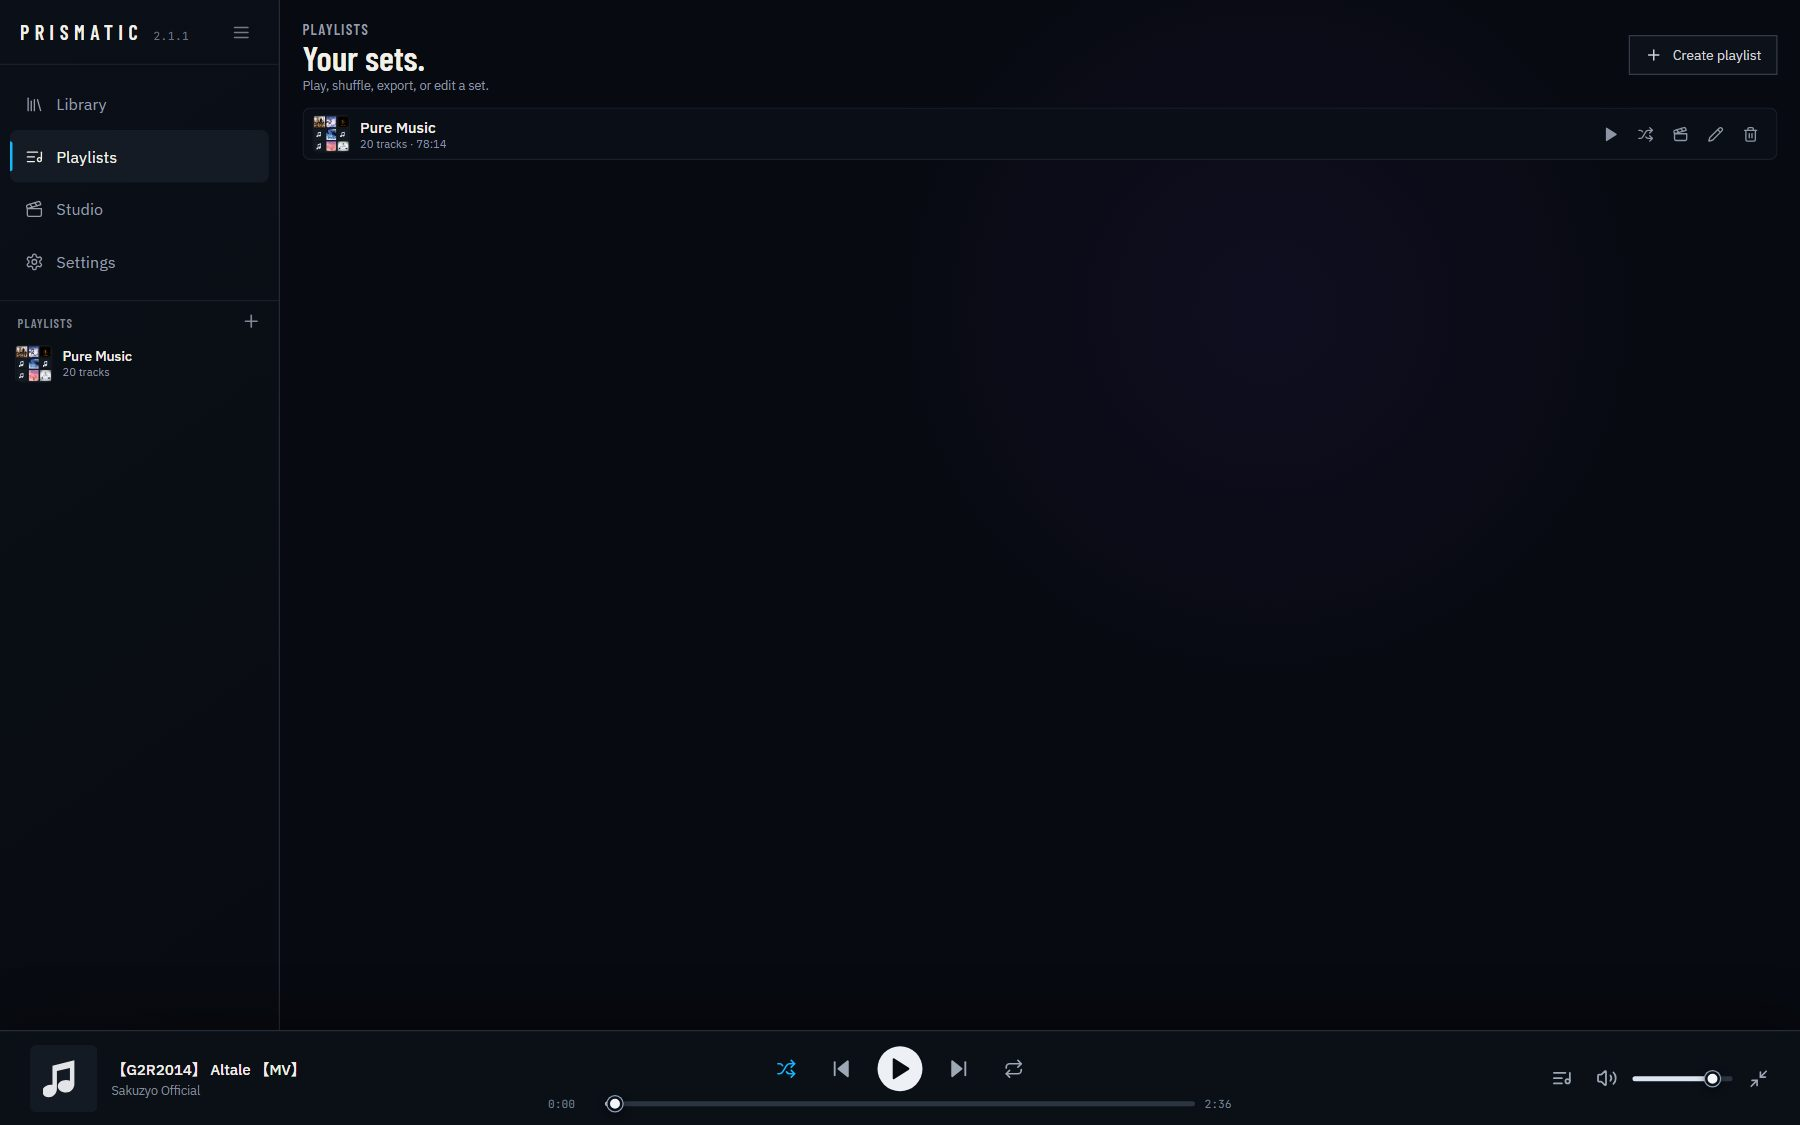
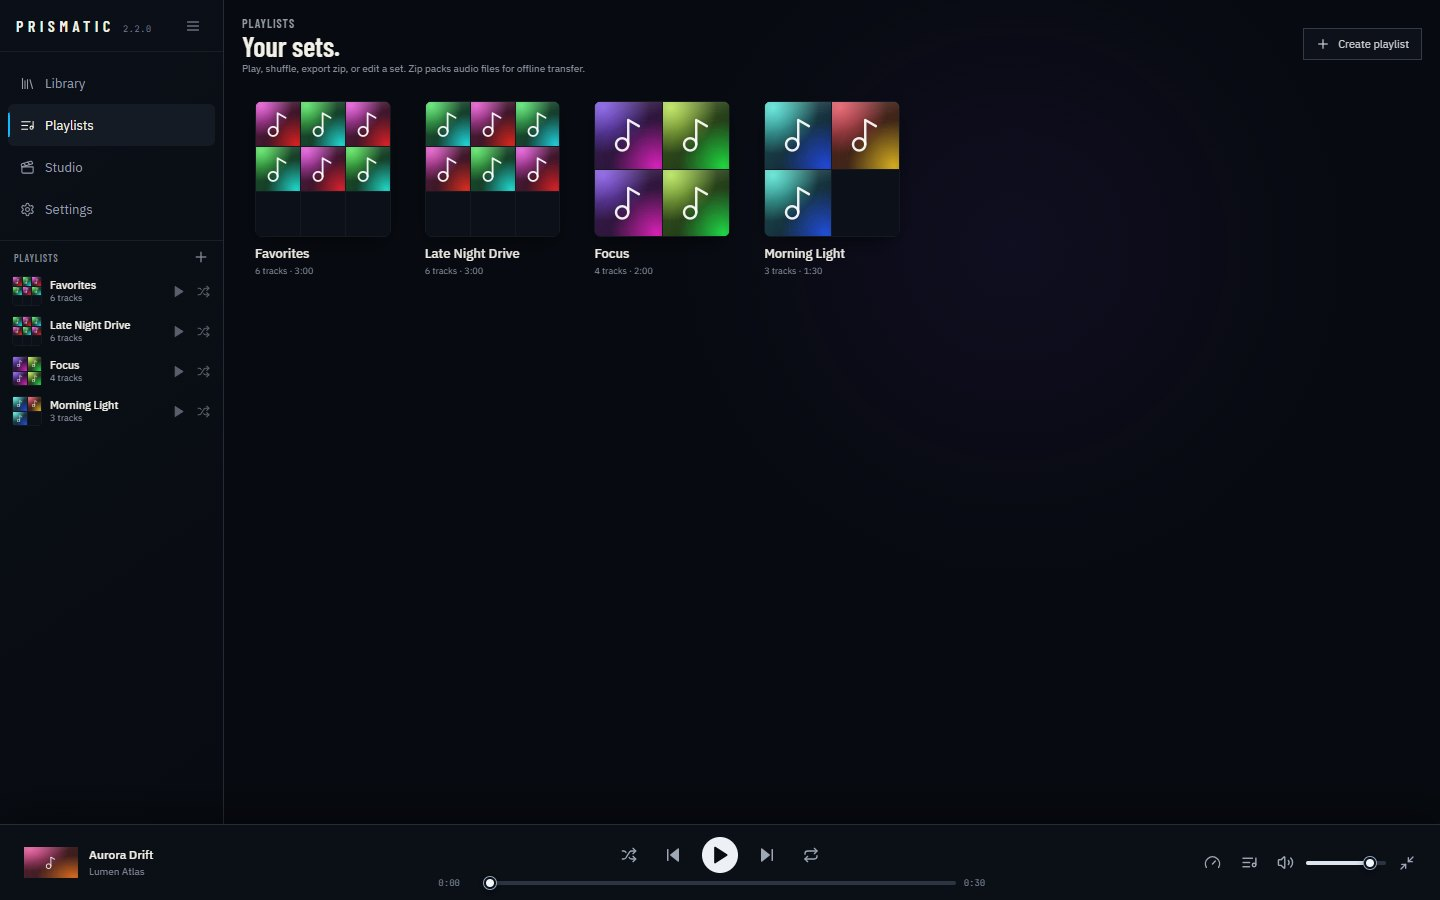
docs: refresh README and screenshots for 2.2.0

diff --git a/README.md b/README.md
@@ -8,12 +8,16 @@ A lightweight music player for **Windows** and **macOS**. Built for everyday lis
 
 ## Highlights
 
-- **Fast library** — songs, albums, artists, search, sort, virtualized rows
-- **Persistent player** — keeps going while you browse, minimize, or switch tabs
-- **Queue you control** — shuffle, repeat, reorder, resume after restart
+- **Fast library** — songs, albums, artists, search, sort, favorites, recent, virtualized rows, right-click menu and multi-select
+- **Full backup & restore** — one zip with your audio, playlists, title edits and settings; restores merge and skip what you already have
+- **Persistent player** — keeps going while you browse, minimize, or switch tabs; resumes the last track and position after a restart
+- **Queue you control** — shuffle, repeat, drag to reorder, play next
+- **Speed & sleep timer** — 0.5×–2× with pitch preserved; fade out after 15/30/60 minutes or at the end of the track
+- **Keyboard first** — press `?` for every shortcut
+- **Open with & drag-and-drop** — double-click audio files, or drop files and folders anywhere in the window
 - **Now Playing** — audio-reactive visuals without a heavy desktop runtime
 - **Offline Studio** — export visuals on-device
-- **Playlists, redesigned** — mosaic-art card grid with play/shuffle on the cover, per-playlist song views, and sidebar quick play
+- **Playlists, redesigned** — accent-tinted cards, a hero header, now-playing equalizer, drag-to-reorder rows, remove with Undo
 - **Playlist zip** — export a set as a zip of audio files; import zip to forge a playlist
 - **Desktop shell** — Tauri 2 on Windows/macOS (~2.5 MiB installer on Windows)
 - **Auto-update** — signed updates from GitHub Releases (2.1.2+)
@@ -43,9 +47,13 @@ Your library lives at `Music/Prismatic` (plus a `.prismatic` state folder). Unin
 |:---:|:---:|
 | ![Library](docs/screenshots/library.jpg) | ![Playlists](docs/screenshots/playlists.jpg) |
 
-| Now Playing | Studio |
+| Playlist | Now Playing |
 |:---:|:---:|
-| ![Now Playing](docs/screenshots/now-playing.jpg) | ![Studio](docs/screenshots/studio.jpg) |
+| ![Playlist](docs/screenshots/playlist-detail.jpg) | ![Now Playing](docs/screenshots/now-playing.jpg) |
+
+| Settings: backup & restore | Studio |
+|:---:|:---:|
+| ![Settings](docs/screenshots/settings.jpg) | ![Studio](docs/screenshots/studio.jpg) |
 
 ## Develop
 
